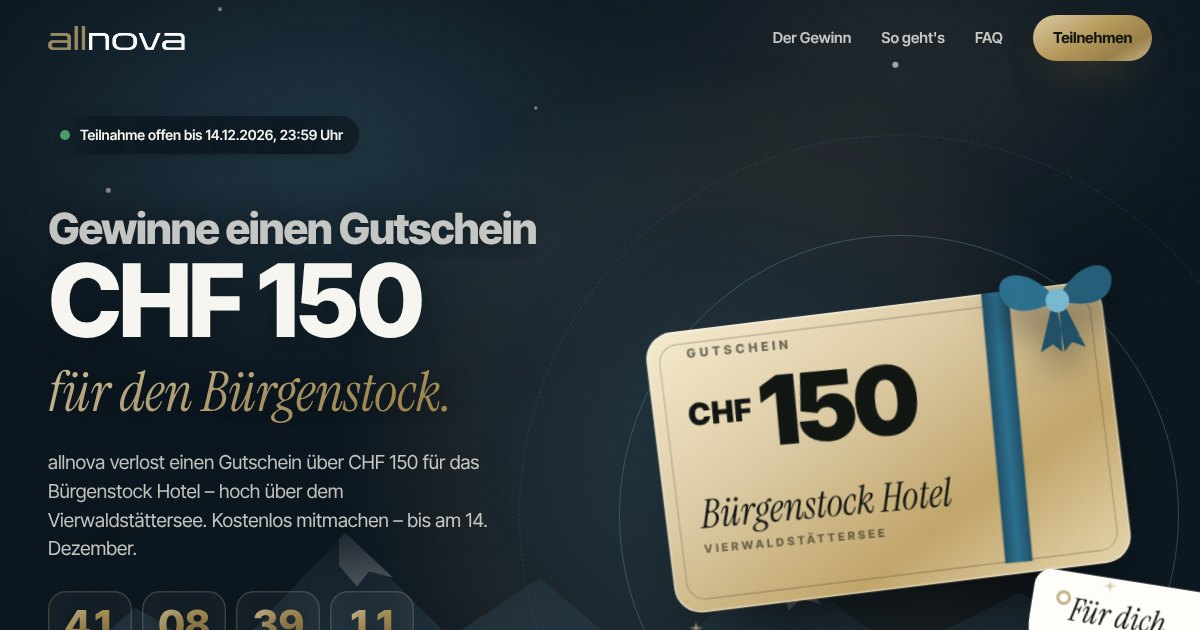
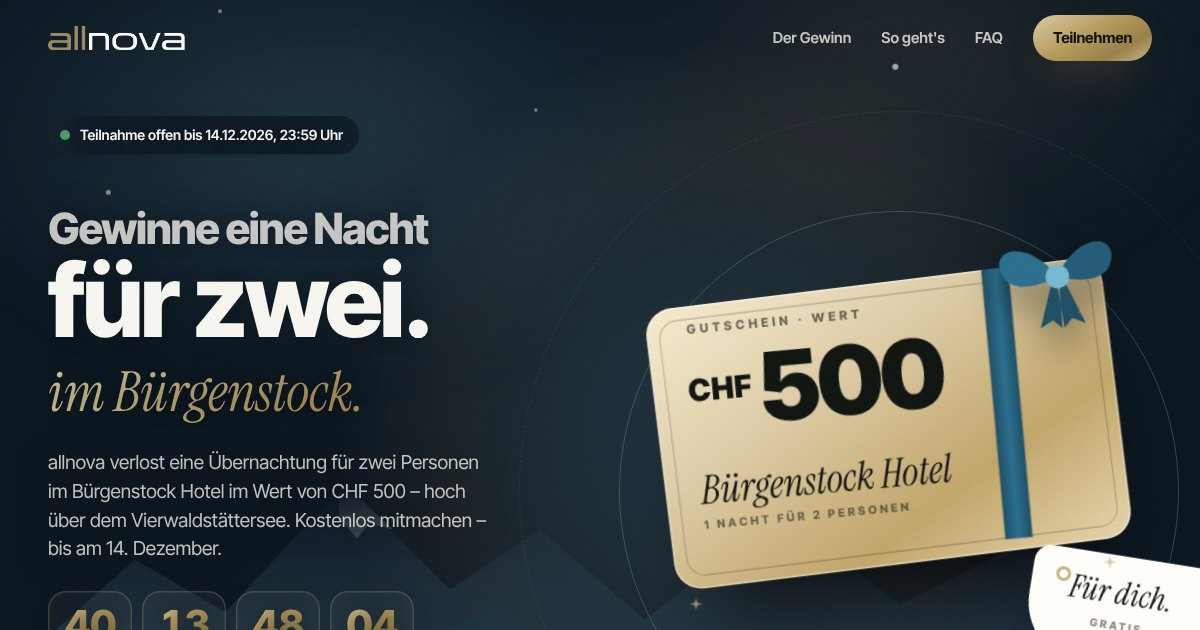
Bürgenstock-Giveaway: Preis neu 1 Übernachtung für 2 Personen im Wert von CHF 500
Claude-Session: https://claude.ai/code/session_01EPwibJ8KXm8GrN7qt8Mmr4

diff --git a/web/buergenstock/index.html b/web/buergenstock/index.html
@@ -3,13 +3,13 @@
 <head>
 <meta charset="utf-8">
 <meta name="viewport" content="width=device-width, initial-scale=1, viewport-fit=cover">
-<title>Giveaway: Gewinne CHF 150 für das Bürgenstock Hotel | allnova</title>
-<meta name="description" content="allnova verlost einen Gutschein über CHF 150 für das Bürgenstock Hotel. Kostenlos mitmachen bis 14.12.2026 – ab 18, Wohnsitz in der Schweiz.">
+<title>Giveaway: Gewinne eine Nacht für zwei im Bürgenstock Hotel | allnova</title>
+<meta name="description" content="allnova verlost eine Übernachtung für zwei Personen im Bürgenstock Hotel im Wert von CHF 500. Kostenlos mitmachen bis 14.12.2026 – ab 18, Wohnsitz in der Schweiz.">
 <link rel="canonical" href="https://gewinnspiel.allnova.ch/buergenstock/">
 <meta property="og:type" content="website">
 <meta property="og:url" content="https://gewinnspiel.allnova.ch/buergenstock/">
-<meta property="og:title" content="Gewinne CHF 150 für das Bürgenstock Hotel – das allnova Giveaway">
-<meta property="og:description" content="1 Person gewinnt einen Gutschein über CHF 150 für das Bürgenstock Hotel. Kostenlos mitmachen bis 14.12.2026.">
+<meta property="og:title" content="Gewinne eine Nacht für zwei im Bürgenstock Hotel – das allnova Giveaway">
+<meta property="og:description" content="1 Person gewinnt eine Übernachtung für zwei im Bürgenstock Hotel im Wert von CHF 500. Kostenlos mitmachen bis 14.12.2026.">
 <meta property="og:image" content="https://gewinnspiel.allnova.ch/assets/img/og-buergenstock.jpg">
 <meta name="twitter:card" content="summary_large_image">
 <meta name="theme-color" content="#0c141b">
@@ -64,11 +64,11 @@
       <div class="hero-copy">
         <div class="status-chip" data-intro><span class="pulse" aria-hidden="true"></span><span data-phase-text>Teilnahme offen bis 14.12.2026, 23:59 Uhr</span></div>
         <h1 class="hero-title">
-          <span class="line-mask"><span class="l1">Gewinne einen Gutschein</span></span>
-          <span class="line-mask"><span class="l2">CHF 150</span></span>
-          <span class="line-mask"><span class="l3"><span class="serif it gold">für den Bürgenstock.</span></span></span>
+          <span class="line-mask"><span class="l1">Gewinne eine Nacht</span></span>
+          <span class="line-mask"><span class="l2">für zwei.</span></span>
+          <span class="line-mask"><span class="l3"><span class="serif it gold">im Bürgenstock.</span></span></span>
         </h1>
-        <p class="lead" data-intro>allnova verlost einen Gutschein über CHF 150 für das Bürgenstock Hotel – hoch über dem Vierwaldstättersee. Kostenlos mitmachen – bis am 14. Dezember.</p>
+        <p class="lead" data-intro>allnova verlost eine Übernachtung für zwei Personen im Bürgenstock Hotel im Wert von CHF 500 – hoch über dem Vierwaldstättersee. Kostenlos mitmachen – bis am 14. Dezember.</p>
         <div class="countdown countdown--hero" data-countdown="always" data-intro hidden aria-label="Verbleibende Zeit bis Teilnahmeschluss">
           <div class="u"><span class="v">00</span><span class="l">Tage</span></div>
           <div class="u"><span class="v">00</span><span class="l">Std</span></div>
@@ -80,7 +80,7 @@
           <a class="btn btn--ghost" href="#gewinn"><span class="label">Zum Gewinn</span></a>
         </div>
         <ul class="chips" data-intro aria-label="Das Wichtigste">
-          <li class="chip"><svg viewBox="0 0 16 16"><path d="M3 8.5l3 3 7-7" fill="none" stroke="currentColor" stroke-width="2" stroke-linecap="round" stroke-linejoin="round"/></svg>1 Gewinnperson</li>
+          <li class="chip"><svg viewBox="0 0 16 16"><path d="M3 8.5l3 3 7-7" fill="none" stroke="currentColor" stroke-width="2" stroke-linecap="round" stroke-linejoin="round"/></svg>Wert CHF 500</li>
           <li class="chip"><svg viewBox="0 0 16 16"><path d="M3 8.5l3 3 7-7" fill="none" stroke="currentColor" stroke-width="2" stroke-linecap="round" stroke-linejoin="round"/></svg>Ab 18 · Wohnsitz Schweiz</li>
           <li class="chip"><svg viewBox="0 0 16 16"><path d="M3 8.5l3 3 7-7" fill="none" stroke="currentColor" stroke-width="2" stroke-linecap="round" stroke-linejoin="round"/></svg>Gratis &amp; ohne Kauf</li>
         </ul>
@@ -93,9 +93,9 @@
           <div class="float">
             <div class="art art-voucher" data-art><div data-float style="position:absolute;inset:0">
               <i class="ribbon"></i>
-              <span class="k">Gutschein</span>
-              <span class="v"><small>CHF</small>150</span>
-              <span class="h">Bürgenstock Hotel<span>Vierwaldstättersee</span></span>
+              <span class="k">Gutschein · Wert</span>
+              <span class="v"><small>CHF</small>500</span>
+              <span class="h">Bürgenstock Hotel<span>1 Nacht für 2 Personen</span></span>
             </div></div>
             <div class="art art-bow" data-art data-stamp><svg viewBox="0 0 130 100"><path d="M65 50 C40 10 5 18 14 42 C20 60 46 58 65 50Z" fill="#2b6f8f"/><path d="M65 50 C90 10 125 18 116 42 C110 60 84 58 65 50Z" fill="#245d78"/><path d="M60 52 L44 96 L56 90 L64 98 L66 56Z M70 52 L86 96 L74 90 L66 98 L64 56Z" fill="#1f4f66"/><circle cx="65" cy="50" r="11" fill="#77b9d1"/></svg></div>
             <div class="art art-tag" data-art><p>Für dich.</p><span>Gratis mitmachen</span></div>
@@ -110,8 +110,8 @@
   <!-- TICKER -->
   <div class="ticker-wrap" aria-hidden="true"><div class="ticker">
     <div class="ticker-track" data-ticker>
-      <span>CHF 150</span><i>✦</i><span class="serif it">Bürgenstock</span><i>✦</i><span>Gratis mitmachen</span><i>✦</i><span class="serif it">bis 14.12.2026</span><i>✦</i>
-      <span>CHF 150</span><i>✦</i><span class="serif it">Bürgenstock</span><i>✦</i><span>Gratis mitmachen</span><i>✦</i><span class="serif it">bis 14.12.2026</span><i>✦</i>
+      <span>1 Nacht für 2</span><i>✦</i><span class="serif it">Bürgenstock</span><i>✦</i><span>Wert CHF 500</span><i>✦</i><span>Gratis mitmachen</span><i>✦</i><span class="serif it">bis 14.12.2026</span><i>✦</i>
+      <span>1 Nacht für 2</span><i>✦</i><span class="serif it">Bürgenstock</span><i>✦</i><span>Wert CHF 500</span><i>✦</i><span>Gratis mitmachen</span><i>✦</i><span class="serif it">bis 14.12.2026</span><i>✦</i>
     </div>
   </div></div>
 
@@ -121,27 +121,27 @@
       <div class="sec-head">
         <span class="eyebrow"><span class="num">01</span> Der Gewinn</span>
         <h2 class="h2" data-split>Eine Auszeit. <span class="serif it gold">Hoch über dem See.</span></h2>
-        <p class="lead" data-reveal>Eine Person gewinnt einen Wertgutschein über CHF 150 für das Bürgenstock Hotel – kostenlos zugeschickt an eine Adresse in der Schweiz. Genau richtig für ein Geschenk unter dem Weihnachtsbaum.</p>
+        <p class="lead" data-reveal>Eine Person gewinnt eine Übernachtung für zwei Personen im Bürgenstock Hotel im Wert von CHF 500 – als Gutschein, kostenlos zugeschickt an eine Adresse in der Schweiz. Genau richtig für ein Geschenk unter dem Weihnachtsbaum.</p>
       </div>
       <div class="bento">
         <article class="tile tile--offer" data-reveal>
           <div class="tile-art" aria-hidden="true">
             <div class="art art-voucher">
               <i class="ribbon"></i>
-              <span class="k">Gutschein</span>
-              <span class="v"><small>CHF</small>150</span>
-              <span class="h">Bürgenstock Hotel<span>Vierwaldstättersee</span></span>
+              <span class="k">Gutschein · Wert</span>
+              <span class="v"><small>CHF</small>500</span>
+              <span class="h">Bürgenstock Hotel<span>1 Nacht für 2 Personen</span></span>
             </div>
           </div>
-          <div class="tile-copy"><span class="tile-k">Gutschein</span><h3 class="h3">CHF 150 für das Bürgenstock Hotel</h3><p>Ein Wertgutschein, einlösbar im Bürgenstock Hotel gemäss den Gutscheinbedingungen des Hotels.</p></div>
+          <div class="tile-copy"><span class="tile-k">Der Gewinn</span><h3 class="h3">1 Nacht für 2 im Bürgenstock Hotel</h3><p>Eine Übernachtung für zwei Personen im Wert von CHF 500, als Gutschein – einlösbar gemäss den Bedingungen des Hotels.</p></div>
         </article>
         <article class="tile tile--wide" data-reveal>
           <span class="ic" aria-hidden="true"><svg viewBox="0 0 32 32"><path d="M2 26 L11 12 L16 19 L21 9 L30 26Z" fill="none" stroke="currentColor" stroke-width="2.4" stroke-linejoin="round"/><path d="M2 29h28" stroke="currentColor" stroke-width="2.4" stroke-linecap="round"/></svg></span>
-          <div class="tile-copy"><span class="tile-k">Der Ort</span><h3 class="h3">Bürgenstock.</h3><p>Hoch über dem Vierwaldstättersee, mit Blick auf Luzern und die Alpen – ein Ort zum Durchatmen. Wofür du den Gutschein einsetzt, entscheidest du.</p></div>
+          <div class="tile-copy"><span class="tile-k">Der Ort</span><h3 class="h3">Bürgenstock.</h3><p>Hoch über dem Vierwaldstättersee, mit Blick auf Luzern und die Alpen – ein Ort zum Durchatmen. Wann ihr eure Nacht dort verbringt, entscheidet ihr.</p></div>
         </article>
         <article class="tile tile--count" data-reveal>
           <span class="big serif it gold">1×</span>
-          <p><strong>Eine Gewinnperson</strong> erhält den Gutschein über CHF 150.</p>
+          <p><strong>Eine Gewinnperson</strong> erhält die Übernachtung für sich und eine Begleitperson.</p>
         </article>
         <article class="tile tile--date" data-reveal>
           <span class="tile-k">Auslosung</span>
@@ -249,13 +249,13 @@
         <h2 class="h2" data-split>Gut zu <span class="serif it gold">wissen.</span></h2>
       </div>
       <div class="acc" data-faq>
-        <div class="acc-item"><h3><button class="acc-btn" type="button" aria-expanded="false" aria-controls="faq-0"><span>Was kann ich gewinnen?</span><span class="pm" aria-hidden="true"></span></button></h3><div class="acc-panel" id="faq-0" role="region"><div class="in">Einen Wertgutschein über CHF 150 für das Bürgenstock Hotel am Vierwaldstättersee. Eingelöst wird er direkt beim Hotel, gemäss dessen Gutscheinbedingungen.</div></div></div>
+        <div class="acc-item"><h3><button class="acc-btn" type="button" aria-expanded="false" aria-controls="faq-0"><span>Was kann ich gewinnen?</span><span class="pm" aria-hidden="true"></span></button></h3><div class="acc-panel" id="faq-0" role="region"><div class="in">Eine Übernachtung für zwei Personen im Bürgenstock Hotel am Vierwaldstättersee im Wert von CHF 500. Du erhältst sie als Gutschein und löst sie direkt beim Hotel ein, gemäss dessen Bedingungen.</div></div></div>
         <div class="acc-item"><h3><button class="acc-btn" type="button" aria-expanded="false" aria-controls="faq-1"><span>Wer darf mitmachen?</span><span class="pm" aria-hidden="true"></span></button></h3><div class="acc-panel" id="faq-1" role="region"><div class="in">Alle ab 18 Jahren mit Wohnsitz in der Schweiz. Ausgeschlossen sind Mitarbeitende der Veranstalterin und ihre Haushaltsangehörigen.</div></div></div>
         <div class="acc-item"><h3><button class="acc-btn" type="button" aria-expanded="false" aria-controls="faq-2"><span>Kostet die Teilnahme etwas?</span><span class="pm" aria-hidden="true"></span></button></h3><div class="acc-panel" id="faq-2" role="region"><div class="in">Nein. Die Teilnahme ist kostenlos und setzt weder einen Kauf noch einen Versicherungsabschluss, ein App-Konto oder eine Werbeeinwilligung voraus.</div></div></div>
         <div class="acc-item"><h3><button class="acc-btn" type="button" aria-expanded="false" aria-controls="faq-3"><span>Muss ich auf Instagram etwas machen?</span><span class="pm" aria-hidden="true"></span></button></h3><div class="acc-panel" id="faq-3" role="region"><div class="in">Nein. Gültig ist die Teilnahme über das Formular auf dieser Seite, sobald du deine E-Mail-Adresse bestätigt hast. Folgen, Liken oder Teilen auf Instagram ist freiwillig und erhöht die Gewinnchance nicht.</div></div></div>
         <div class="acc-item"><h3><button class="acc-btn" type="button" aria-expanded="false" aria-controls="faq-4"><span>Wann ist meine Teilnahme gültig?</span><span class="pm" aria-hidden="true"></span></button></h3><div class="acc-panel" id="faq-4" role="region"><div class="in">Sobald du deine E-Mail-Adresse über den Bestätigungslink bestätigt hast – spätestens bis 14.12.2026, 23:59 Uhr. Pro Person ist eine Teilnahme möglich.</div></div></div>
         <div class="acc-item"><h3><button class="acc-btn" type="button" aria-expanded="false" aria-controls="faq-5"><span>Wann wird ausgelost und wie erfahre ich es?</span><span class="pm" aria-hidden="true"></span></button></h3><div class="acc-panel" id="faq-5" role="region"><div class="in">Die Auslosung findet am 15.12.2026 statt. Die Gewinnperson wird per E-Mail von einer offiziellen @allnova.ch-Adresse benachrichtigt. Wir verlangen nie Zahlungsdaten, Gebühren oder Passwörter – Nachrichten von angeblichen allnova-Profilen, die so etwas fordern, sind Fälschungen.</div></div></div>
-        <div class="acc-item"><h3><button class="acc-btn" type="button" aria-expanded="false" aria-controls="faq-6"><span>Wie und wann erhalte ich den Gutschein?</span><span class="pm" aria-hidden="true"></span></button></h3><div class="acc-panel" id="faq-6" role="region"><div class="in">Nach deiner Rückmeldung schicken wir dir den Gutschein kostenlos an eine Adresse in der Schweiz – wenn möglich noch vor Weihnachten. Eine Barauszahlung ist nicht möglich.</div></div></div>
+        <div class="acc-item"><h3><button class="acc-btn" type="button" aria-expanded="false" aria-controls="faq-6"><span>Wie und wann erhalte ich den Gutschein?</span><span class="pm" aria-hidden="true"></span></button></h3><div class="acc-panel" id="faq-6" role="region"><div class="in">Nach deiner Rückmeldung schicken wir dir den Gutschein für die Übernachtung kostenlos an eine Adresse in der Schweiz – wenn möglich noch vor Weihnachten. Eine Barauszahlung ist nicht möglich.</div></div></div>
         <div class="acc-item"><h3><button class="acc-btn" type="button" aria-expanded="false" aria-controls="faq-7"><span>Kann ich meine Gewinnchance verdoppeln?</span><span class="pm" aria-hidden="true"></span></button></h3><div class="acc-panel" id="faq-7" role="region"><div class="in">Ja. Nach deiner Bestätigung bekommst du einen persönlichen Einladungslink. Macht eine Freundin oder ein Freund darüber gültig mit, erhältst du ein Bonuslos – maximal eines, also doppelte Chance. Für Käufe, Newsletter, App oder Instagram gibt es keine zusätzlichen Lose.</div></div></div>
       </div>
     </div>
@@ -269,12 +269,12 @@
         <div class="acc acc--compact" data-terms>
           <div class="acc-item"><h3><button class="acc-btn" type="button" aria-expanded="false" aria-controls="terms-0"><span>1. Veranstalterin</span><span class="pm" aria-hidden="true"></span></button></h3><div class="acc-panel" id="terms-0" role="region"><div class="in">Allfinanz Consulting GmbH unter der Marke allnova, Chaltenbodenstrasse 26, 8834 Schindellegi; Kontakt: info@allnova.ch. Die Aktion richtet sich an natürliche Personen ab 18 Jahren mit Wohnsitz in der Schweiz. Mitarbeitende der Veranstalterin sowie ihre Haushaltsangehörigen sind ausgeschlossen.</div></div></div>
           <div class="acc-item"><h3><button class="acc-btn" type="button" aria-expanded="false" aria-controls="terms-1"><span>2. Teilnahme</span><span class="pm" aria-hidden="true"></span></button></h3><div class="acc-panel" id="terms-1" role="region"><div class="in">Die Teilnahme erfolgt ausschliesslich über das Formular auf gewinnspiel.allnova.ch/buergenstock. Sie ist kostenlos und setzt weder einen Kauf noch einen Versicherungsabschluss, ein App-Konto, eine Werbeeinwilligung oder eine Aktivität auf Instagram voraus. Pro Person ist eine Teilnahme erlaubt. Sie wird erst nach Bestätigung der E-Mail-Adresse gültig. Anmeldung und Bestätigung müssen bis 14.12.2026, 23:59 Uhr (Europe/Zurich) erfolgen. Automatisierte, nachweislich manipulierte oder mehrfach angelegte Teilnahmen können ausgeschlossen werden.</div></div></div>
-          <div class="acc-item"><h3><button class="acc-btn" type="button" aria-expanded="false" aria-controls="terms-2"><span>3. Preis</span><span class="pm" aria-hidden="true"></span></button></h3><div class="acc-panel" id="terms-2" role="region"><div class="in">1 Gewinnperson erhält einen Wertgutschein über CHF 150 für das Bürgenstock Hotel. Einlösung, Gültigkeit und Leistungen richten sich nach den Gutscheinbedingungen des Hotels. Keine Barauszahlung; keine Übertragung ohne Zustimmung der Veranstalterin.</div></div></div>
+          <div class="acc-item"><h3><button class="acc-btn" type="button" aria-expanded="false" aria-controls="terms-2"><span>3. Preis</span><span class="pm" aria-hidden="true"></span></button></h3><div class="acc-panel" id="terms-2" role="region"><div class="in">1 Gewinnperson erhält eine Übernachtung für zwei Personen im Bürgenstock Hotel im Wert von CHF 500, als Gutschein. Einlösung, Gültigkeit, Verfügbarkeit und Leistungen richten sich nach den Bedingungen des Hotels; An- und Rückreise sowie nicht inbegriffene Leistungen gehen zulasten der Gewinnperson. Keine Barauszahlung; keine Übertragung ohne Zustimmung der Veranstalterin.</div></div></div>
           <div class="acc-item"><h3><button class="acc-btn" type="button" aria-expanded="false" aria-controls="terms-3"><span>4. Ziehung</span><span class="pm" aria-hidden="true"></span></button></h3><div class="acc-panel" id="terms-3" role="region"><div class="in">Die Gewinnperson wird am 15.12.2026 zufällig unter allen gültigen Teilnahmen gezogen. Jede gültige Teilnahme zählt mit einem Los, ein Bonuslos gemäss Ziffer 9 mit einem zweiten Los derselben Person. Die Ziehung wird intern dokumentiert.</div></div></div>
           <div class="acc-item"><h3><button class="acc-btn" type="button" aria-expanded="false" aria-controls="terms-4"><span>5. Benachrichtigung</span><span class="pm" aria-hidden="true"></span></button></h3><div class="acc-panel" id="terms-4" role="region"><div class="in">Die Gewinnperson wird per E-Mail von einer offiziellen @allnova.ch-Adresse angeschrieben; wer einen Instagram-Namen angegeben hat, kann zusätzlich eine Direktnachricht vom Profil @allnova.ch erhalten. Es werden keine Zahlungsdaten, Gebühren oder Passwörter verlangt. Bleibt eine Antwort sieben Kalendertage aus, wird neu gezogen. Name, Foto oder Video werden nur mit gesonderter Zustimmung veröffentlicht; diese ist keine Voraussetzung für den Preis.</div></div></div>
           <div class="acc-item"><h3><button class="acc-btn" type="button" aria-expanded="false" aria-controls="terms-5"><span>6. Versand</span><span class="pm" aria-hidden="true"></span></button></h3><div class="acc-panel" id="terms-5" role="region"><div class="in">Der Gutschein wird nach Rückmeldung der Gewinnperson kostenlos an eine Lieferadresse in der Schweiz verschickt. Die Postadresse wird erst nach der Ziehung erfragt.</div></div></div>
           <div class="acc-item"><h3><button class="acc-btn" type="button" aria-expanded="false" aria-controls="terms-6"><span>7. Daten</span><span class="pm" aria-hidden="true"></span></button></h3><div class="acc-panel" id="terms-6" role="region"><div class="in">Die Teilnehmerdaten (Vorname, Nachname, E-Mail, Telefon, Geburtsdatum, PLZ, freiwillig Instagram-Name) werden zur Abwicklung und zur Altersprüfung verwendet. Daten nicht gewinnender Personen werden spätestens 90 Tage nach Abschluss der Gewinnabwicklung gelöscht oder anonymisiert, soweit keine begründete Aufbewahrung nötig ist. Gewinnerdaten bleiben für die Leistungserfüllung und anwendbare Nachweispflichten erhalten. Werbeeinwilligungen werden separat dokumentiert. Die Teilnehmerliste wird nicht weitergegeben.</div></div></div>
-          <div class="acc-item"><h3><button class="acc-btn" type="button" aria-expanded="false" aria-controls="terms-7"><span>8. Plattformen, Marken und Änderungen</span><span class="pm" aria-hidden="true"></span></button></h3><div class="acc-panel" id="terms-7" role="region"><div class="in">Instagram und Facebook sind keine Veranstalter oder Sponsoren; soweit rechtlich zulässig, werden sie von Ansprüchen aus dieser Aktion freigestellt. Die Aktion wird von der Veranstalterin durchgeführt; der Gutschein wurde von ihr erworben. Die Bürgenstock Hotels sind nicht Veranstalter dieser Aktion. Sachlich notwendige Änderungen werden transparent bekanntgegeben und dürfen den zugesagten Preis nicht willkürlich mindern. Unabdingbare gesetzliche Ansprüche bleiben bestehen.</div></div></div>
+          <div class="acc-item"><h3><button class="acc-btn" type="button" aria-expanded="false" aria-controls="terms-7"><span>8. Plattformen, Marken und Änderungen</span><span class="pm" aria-hidden="true"></span></button></h3><div class="acc-panel" id="terms-7" role="region"><div class="in">Instagram und Facebook sind keine Veranstalter oder Sponsoren; soweit rechtlich zulässig, werden sie von Ansprüchen aus dieser Aktion freigestellt. Die Aktion wird von der Veranstalterin durchgeführt; der Preis wurde von ihr erworben. Die Bürgenstock Hotels sind nicht Veranstalter dieser Aktion. Sachlich notwendige Änderungen werden transparent bekanntgegeben und dürfen den zugesagten Preis nicht willkürlich mindern. Unabdingbare gesetzliche Ansprüche bleiben bestehen.</div></div></div>
           <div class="acc-item"><h3><button class="acc-btn" type="button" aria-expanded="false" aria-controls="terms-8"><span>9. Bonuslos durch Einladung</span><span class="pm" aria-hidden="true"></span></button></h3><div class="acc-panel" id="terms-8" role="region"><div class="in">Nach bestätigter Teilnahme erhältst du einen persönlichen Einladungslink. Nimmt eine andere Person über diesen Link teil und bestätigt ihre Teilnahme gültig innerhalb der Laufzeit, erhältst du ein Bonuslos – höchstens eines pro Person, also maximal zwei Lose (doppelte Gewinnchance). Das Bonuslos setzt keinen Kauf, keine Werbeeinwilligung und kein Teilen auf einer bestimmten Plattform voraus; das Weiterleiten des Links ist freiwillig. Teile ihn nur mit Personen, die damit einverstanden sind, und nicht als Massenversand. Die eingeladene Person nimmt zu den gleichen Bedingungen teil, ihre eigene Gewinnchance ändert sich dadurch nicht. Du erfährst nicht, wer über deinen Link teilgenommen hat. Selbsteinladungen, Teilnahmen über denselben Internetanschluss sowie fiktive oder mehrfach angelegte Adressen zählen nicht und können zum Ausschluss führen.</div></div></div>
         </div>
       </div>
@@ -291,7 +291,7 @@
     <div class="wrap">
       <div class="cta-band" data-reveal>
         <p class="eyebrow"><span data-phase-text>Teilnahme offen bis 14.12.2026, 23:59 Uhr</span></p>
-        <h2 class="h2">CHF 150 für den Bürgenstock. <span class="serif it">Gratis mitmachen.</span></h2>
+        <h2 class="h2">Eine Nacht für zwei im Bürgenstock. <span class="serif it">Gratis mitmachen.</span></h2>
         <div class="countdown" data-countdown="always" hidden aria-label="Verbleibende Zeit">
           <div class="u"><span class="v">00</span><span class="l">Tage</span></div>
           <div class="u"><span class="v">00</span><span class="l">Std</span></div>
@@ -324,7 +324,7 @@
         <p><a href="../">Alle Giveaways</a><br><a href="#bedingungen">Teilnahmebedingungen</a><br><a href="#datenschutz">Datenschutz</a><br><a href="https://www.allnova.ch/" rel="noopener">allnova.ch</a><br><a href="https://www.instagram.com/allnova.ch/" target="_blank" rel="noopener">Instagram</a></p>
       </div>
     </div>
-    <p class="legal">Keine Barauszahlung. Bürgenstock ist eine Marke der Bürgenstock Hotels AG. Der Gutschein wurde von der Veranstalterin erworben; die Abbildungen sind eigene Illustrationen. Das Giveaway steht in keiner Verbindung zu den Bürgenstock Hotels oder zu Instagram. © allnova</p>
+    <p class="legal">Keine Barauszahlung. Bürgenstock ist eine Marke der Bürgenstock Hotels AG. Der Preis wurde von der Veranstalterin erworben; die Abbildungen sind eigene Illustrationen. Das Giveaway steht in keiner Verbindung zu den Bürgenstock Hotels oder zu Instagram. © allnova</p>
   </div>
 </footer>
 

diff --git a/web/index.html b/web/index.html
@@ -4,7 +4,7 @@
 <meta charset="utf-8">
 <meta name="viewport" content="width=device-width, initial-scale=1, viewport-fit=cover">
 <title>Giveaways | allnova</title>
-<meta name="description" content="Die aktuellen Giveaways von allnova: PS5 Pro + GTA VI, CHF 1'000 mit der Gratis-Steuererklärung und ein Bürgenstock-Gutschein. Teilnahme kostenlos, ab 18, Wohnsitz in der Schweiz.">
+<meta name="description" content="Die aktuellen Giveaways von allnova: PS5 Pro + GTA VI, CHF 1'000 mit der Gratis-Steuererklärung und eine Nacht für zwei im Bürgenstock. Teilnahme kostenlos, ab 18, Wohnsitz in der Schweiz.">
 <link rel="canonical" href="https://gewinnspiel.allnova.ch/">
 <meta property="og:type" content="website">
 <meta property="og:url" content="https://gewinnspiel.allnova.ch/">
@@ -101,8 +101,8 @@
       <div class="meta"><span class="date">Bis 31.03.2027, 23:59 Uhr</span><span class="btn btn--gold btn--sm"><span class="label">Termin anfragen</span></span></div>
     </a>
     <a class="tile tile--bg" href="buergenstock/" data-tile>
-      <div><span class="k"><i></i>Ab 05.11.2026</span><h2>CHF 150 <br><span class="serif it gold">Bürgenstock.</span></h2><p>1 Person gewinnt einen Gutschein über CHF 150 für das Bürgenstock Hotel. Gratis und ohne Kauf.</p></div>
-      <div class="mini" aria-hidden="true"><span class="mini-voucher"><i></i><b><small>CHF</small>150</b><em>Bürgenstock Hotel</em></span></div>
+      <div><span class="k"><i></i>Ab 05.11.2026</span><h2>1 Nacht für 2 <br><span class="serif it gold">Bürgenstock.</span></h2><p>1 Person gewinnt eine Übernachtung für zwei im Bürgenstock Hotel im Wert von CHF 500. Gratis und ohne Kauf.</p></div>
+      <div class="mini" aria-hidden="true"><span class="mini-voucher"><i></i><b><small>CHF</small>500</b><em>Bürgenstock Hotel</em></span></div>
       <div class="meta"><span class="date">05.11.–14.12.2026</span><span class="btn btn--gold btn--sm"><span class="label">Zum Giveaway</span></span></div>
     </a>
     <div class="tile tile--next">

diff --git a/web/assets/js/demo-data.js b/web/assets/js/demo-data.js
@@ -21,12 +21,12 @@ export const DEMO_CAMPAIGNS = {
   },
   'buergenstock-2026': {
     slug: 'buergenstock-2026', kind: 'giveaway', status: 'draft', title: 'Bürgenstock-Giveaway',
-    tagline: 'Gewinne einen Gutschein über CHF 150 für das Bürgenstock Hotel.',
+    tagline: 'Gewinne eine Nacht für zwei im Bürgenstock Hotel.',
     starts_at: '2026-11-04T23:00:00Z', ends_at: '2026-12-14T22:59:59Z',
     starts_at_label: '05.11.2026, 00:00 Uhr', ends_at_label: '14.12.2026, 23:59 Uhr',
     draw_on: '2026-12-15', redeem_until: null, min_age: 18, allowed_cantons: [],
     requires_pool_choice: false, referral_bonus_max: 1, collect_contact_details: true, requires_appointment: false,
     public_url: 'https://gewinnspiel.allnova.ch/buergenstock/',
-    pools: [{ key: 'hauptpreis', title: 'Gutschein CHF 150 für das Bürgenstock Hotel', short_title: 'Bürgenstock CHF 150', winners: 1, details: { type: 'gutschein', value_chf: 150 }, partner: null }],
+    pools: [{ key: 'hauptpreis', title: '1 Übernachtung für 2 Personen im Bürgenstock Hotel (Wert CHF 500)', short_title: '1 Nacht für 2 im Bürgenstock', winners: 1, details: { type: 'gutschein', value_chf: 500, nights: 1, persons: 2 }, partner: null }],
   },
 };

diff --git a/web/bestaetigen/index.html b/web/bestaetigen/index.html
@@ -75,7 +75,7 @@ function render(html) {
 const tickets = (active) => `<svg class="tickets${active ? ' is-active' : ''}" viewBox="0 0 132 84" aria-hidden="true"><g transform="translate(6 30) rotate(-8)"><path class="t1" d="M6 0h52a6 6 0 0 1 6 6v8a6 6 0 0 0 0 12v8a6 6 0 0 1-6 6H6a6 6 0 0 1-6-6v-8a6 6 0 0 0 0-12V6a6 6 0 0 1 6-6z"/><path class="t1-l" d="M44 6v28"/><text x="22" y="25" class="t1-x">1</text></g><g class="t2g" transform="translate(62 12) rotate(9)"><path class="t2" d="M6 0h52a6 6 0 0 1 6 6v8a6 6 0 0 0 0 12v8a6 6 0 0 1-6 6H6a6 6 0 0 1-6-6v-8a6 6 0 0 0 0-12V6a6 6 0 0 1 6-6z"/><text x="32" y="26" class="t2-x">+1</text></g></svg>`;
 const SHARE_TEXT = {
   'ps5-gta6-2026': 'Ich mache beim allnova Giveaway mit – zu gewinnen gibt es eine PS5 Pro mit GTA VI. Mach auch mit:',
-  'buergenstock-2026': 'Ich mache beim allnova Giveaway mit – zu gewinnen gibt es einen Gutschein über CHF 150 für das Bürgenstock Hotel. Mach auch mit:',
+  'buergenstock-2026': 'Ich mache beim allnova Giveaway mit – zu gewinnen gibt es eine Nacht für zwei im Bürgenstock Hotel. Mach auch mit:',
 };
 // Zusatzhinweis nach der Bestätigung (z. B. Termin als Voraussetzung für die Verlosung)
 const NEXT_STEP = {

diff --git a/README.md b/README.md
@@ -113,7 +113,7 @@ Die Migrationen sind noch auf **kein** Supabase-Projekt angewendet.
 
 **Weitere Kampagnen (Migrationen `20261103…`)** – Übergabe-Anleitung für den Hoster: [UEBERGABE.md](UEBERGABE.md)
 - `steuern/` – **steuern-2027**: Erste Steuererklärung gratis (dank KI) + Verlosung CHF 1'000 unter allen, die einen Beratungstermin anfragen, bestätigen und **wahrnehmen**. Ohne Einladungs-Bonus. Anfrage 05.11.2026 – 31.03.2027, Termin bis 15.04.2027, Auslosung 20.04.2027. Termin nach dem Gespräch markieren: `admin_mark_appointment('steuern-2027', 'mail@beispiel.ch')`; `admin_draw` zieht nur Teilnahmen mit wahrgenommenem Termin (`campaigns.requires_appointment`).
-- `buergenstock/` – **buergenstock-2026**: Gutschein CHF 150 für das Bürgenstock Hotel, mit Einladungs-Bonus. 05.11.–14.12.2026, Auslosung 15.12.2026.
+- `buergenstock/` – **buergenstock-2026**: 1 Übernachtung für 2 Personen im Bürgenstock Hotel (Wert CHF 500), mit Einladungs-Bonus. 05.11.–14.12.2026, Auslosung 15.12.2026.
 - Beide Formulare fragen wie allnova.ch/gewinnspiele zusätzlich **Telefon** und **Geburtsdatum** ab (`campaigns.collect_contact_details`; Alter ≥ 18 wird serverseitig geprüft, Telefon auf +41… normalisiert). Die PS5-Seite bleibt unverändert.
 - Gemeinsames Seitenskript `assets/js/kampagne.js`, Gestaltung `assets/css/kampagne.css` (Steuern: helle Papierwelt; Bürgenstock: Winternacht über dem See).
 

diff --git a/UEBERGABE.md b/UEBERGABE.md
@@ -9,7 +9,7 @@ web/
 ├── index.html            Übersicht «Mitmachen. Gewinnen.» – zeigt alle Gewinnspiele als Karten
 ├── ps5-gta6/index.html   Gewinnspiel PS5 + GTA VI            (bestehend, unverändert)
 ├── steuern/index.html    Gewinnspiel Gratis-Steuererklärung + CHF 1'000   ← NEU
-├── buergenstock/index.html  Gewinnspiel Bürgenstock-Gutschein CHF 150     ← NEU
+├── buergenstock/index.html  Gewinnspiel Bürgenstock: 1 Nacht für 2 (CHF 500) ← NEU
 ├── bestaetigen/index.html   Bestätigungsseite (Link aus der Mail), für alle Gewinnspiele gemeinsam
 ├── assets/               gemeinsame Dateien aller Seiten (CSS, JS, Schriften, Bilder)
 └── vercel.json           Weiterleitungen/Header (nur bei Vercel nötig)
